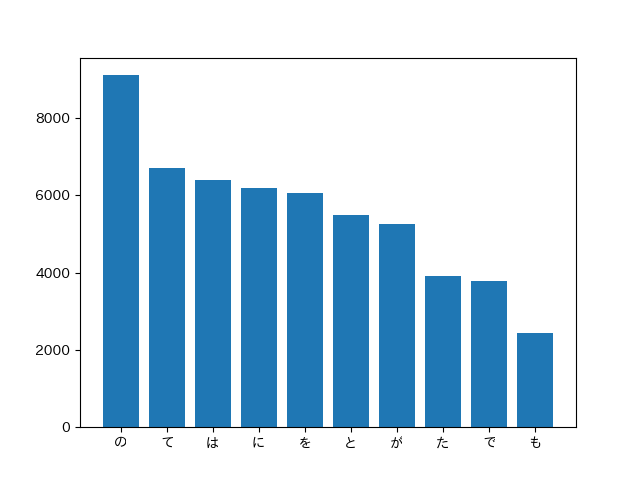
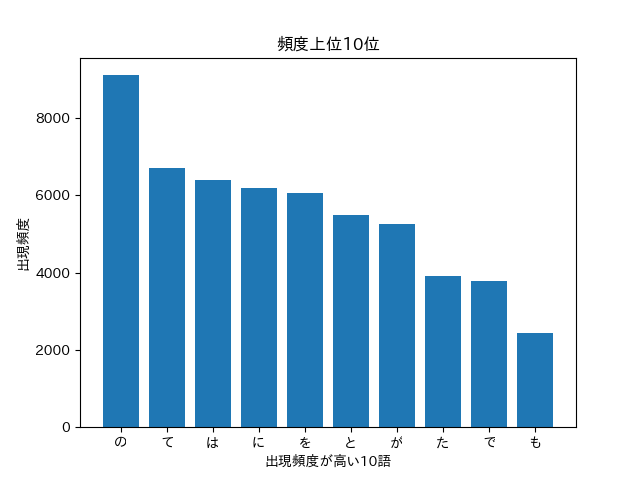
add title and axis name

Changed region(s): [[0.4375, 0.0625, 0.5938, 0.125], [0.4062, 0.9375, 0.625, 0.9688], [0.0, 0.4375, 0.0625, 0.5625]]

diff --git a/Chapter4/37.py b/Chapter4/37.py
@@ -24,8 +24,10 @@ def main():
         data[i]=data[i].replace("\n","")
         word.append(data[i].split("\t")[0])
         frequency.append(data[i].split("\t")[1])
-    print(word)
-    print(frequency)
+    # print(word)
+    # ['の', 'て', 'は', 'に', 'を', 'と', 'が', 'た', 'で', 'も']
+    # print(frequency)
+    # ['9108', '6703', '6385', '6190', '6068', '5483', '5260', '3916', '3780', '2434']
     frequency_int=[]
     #str >> int
     for num in frequency:
@@ -34,12 +36,15 @@ def main():
     left=word
     right=frequency_int
     plt.bar(left,right)
+    plt.title("頻度上位10位")
+    plt.xlabel("出現頻度が高い10語")
+    plt.ylabel("出現頻度")
     plt.savefig( '37.png' )
-    print(matplotlib.matplotlib_fname())
+    # print(matplotlib.matplotlib_fname())
     # /home/sho0126hiro/.local/lib/python3.5/site-packages/matplotlib/mpl-data/matplotlibrc
-    print(matplotlib.get_configdir())
+    # print(matplotlib.get_configdir())
     # /home/sho0126hiro/.config/matplotlib
-    print(matplotlib.rcParams['font.family'])
+    # print(matplotlib.rcParams['font.family'])
 
 
 if __name__  == '__main__':
